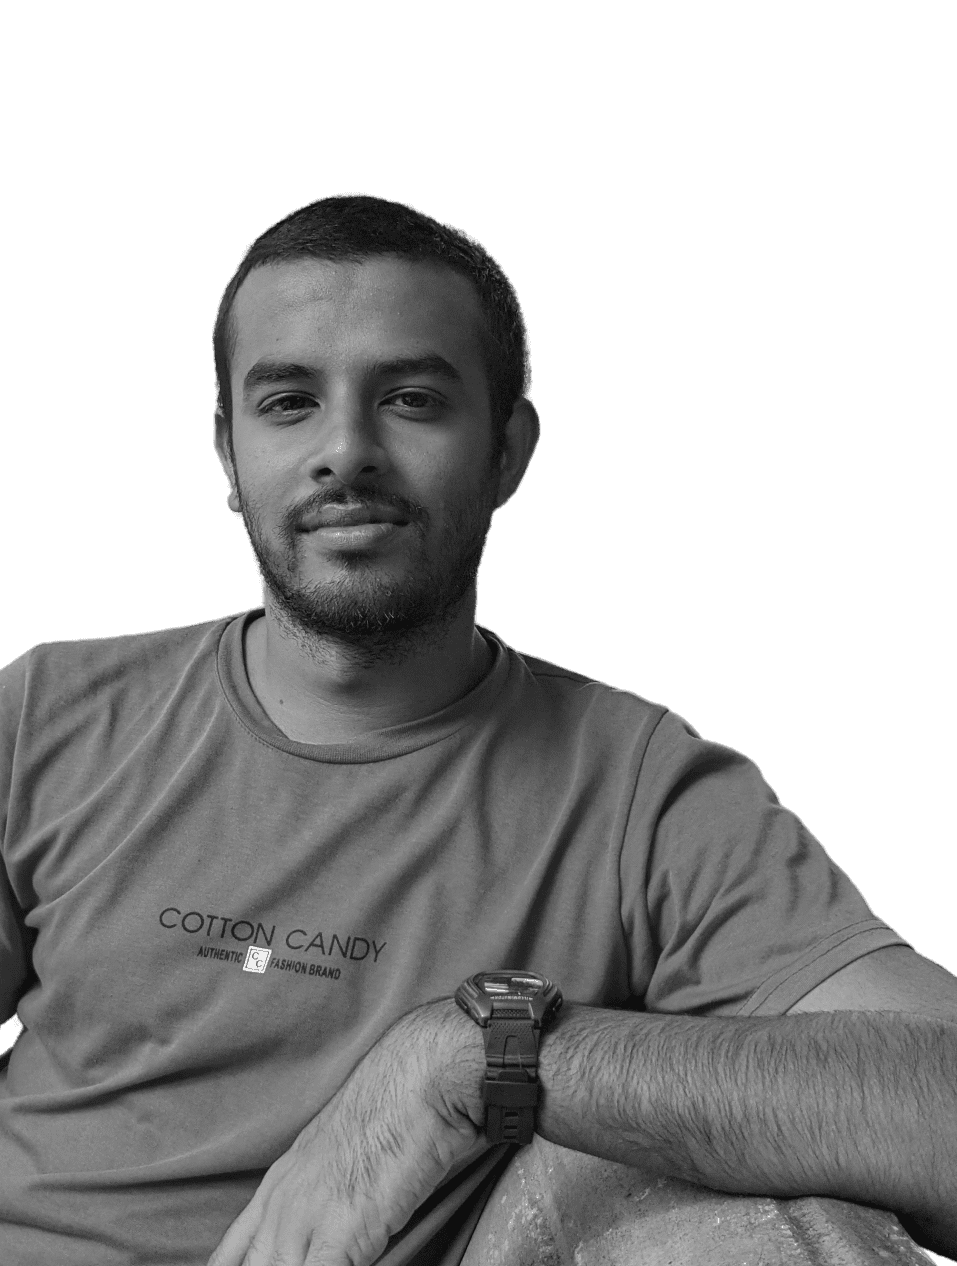
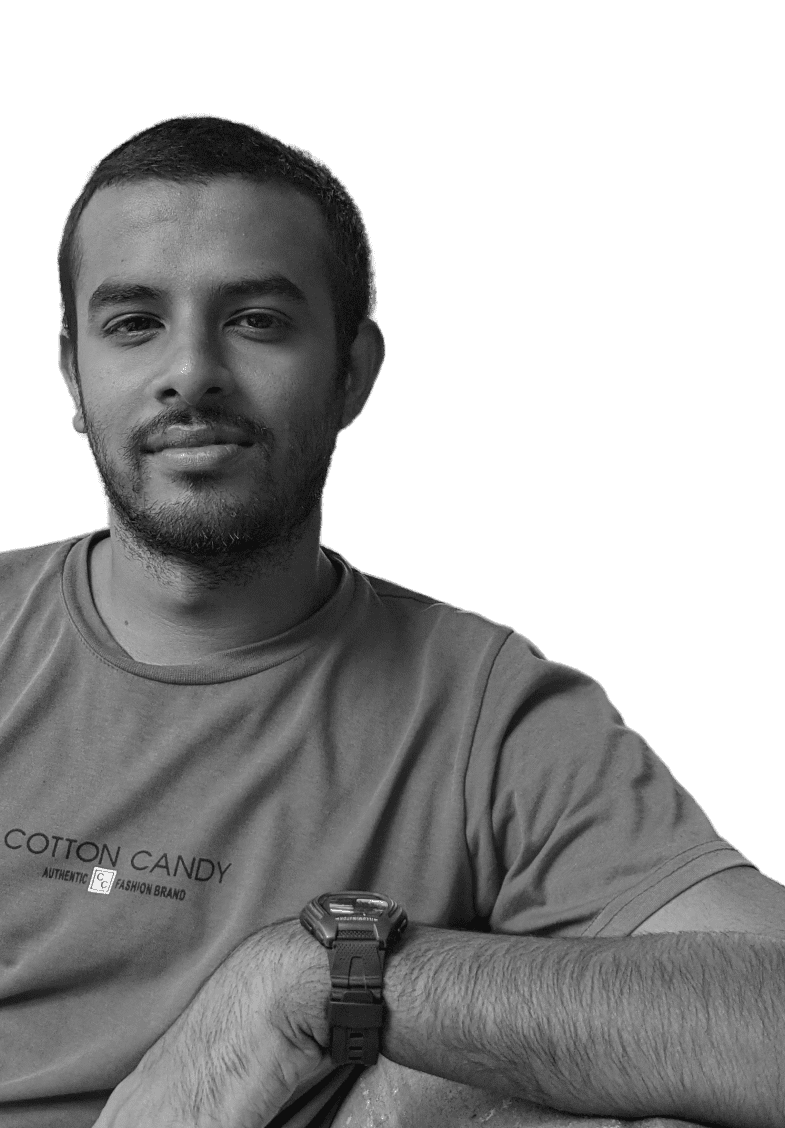
fixed responsivess

diff --git a/src/components/styles/HeroSection.styled.js b/src/components/styles/HeroSection.styled.js
@@ -16,8 +16,10 @@ export const HeroCard = styled.div`
   justify-content: space-between;
 
   @media (max-width: ${size.mobileL}) {
-    height: 90vh;
+    height: 100vh;
+    width: 100%;
     flex-direction: column;
+    overflow: hidden;
   }
 `;
 
@@ -25,16 +27,25 @@ export const GreetingDiv = styled.div`
   width: 100%;
   display: flex;
   align-items: flex-start;
+  text-align: left;
   padding-left: 2rem;
   padding-top: 3rem;
+
+  @media (max-width: ${size.mobileL}) {
+    padding-right: 2rem;
+    text-align: right;
+  }
 `;
 
 export const GreetingText = styled.h1`
   font-weight: 500;
   font-style: italic;
-  /* font-size: 9.9vh; */
   font-size: min(64px, 10.9vw);
   color: #1c0002;
+
+  @media (max-width: ${size.mobileL}) {
+    text-align: right;
+  }
 `;
 
 export const HeroImg = styled.img`

diff --git a/src/components/styles/AboutMe.styled.js b/src/components/styles/AboutMe.styled.js
@@ -1,11 +1,16 @@
 import styled from "styled-components";
 import { Title } from "./LandingPage.styled";
+import { size } from "../../data/breakpoint";
 
 export const AboutMeDiv = styled.div`
   height: 80vh;
   display: flex;
   align-items: center;
   justify-content: center;
+
+  /* @media (max-width: ${size.mobileL}) {
+    margin-top: 8.5rem;
+  } */
 `;
 
 export const AboutMeDisc = styled(Title)`

diff --git a/src/data/breakpoint.js b/src/data/breakpoint.js
@@ -1,7 +1,8 @@
 export const size = {
   mobileS: "320px",
   mobileM: "375px",
-  mobileL: "425px",
+  // mobileL: "425px",
+  mobileL: "525px",
   tablet: "768px",
   laptop: "1024px",
   laptopL: "1440px",

diff --git a/src/components/styles/WorkSection.styled.js b/src/components/styles/WorkSection.styled.js
@@ -9,6 +9,7 @@ export const CardDiv = styled.div`
 
   @media (max-width: ${size.mobileL}) {
     flex-direction: column;
+    align-items: space-between;
   }
 `;
 
